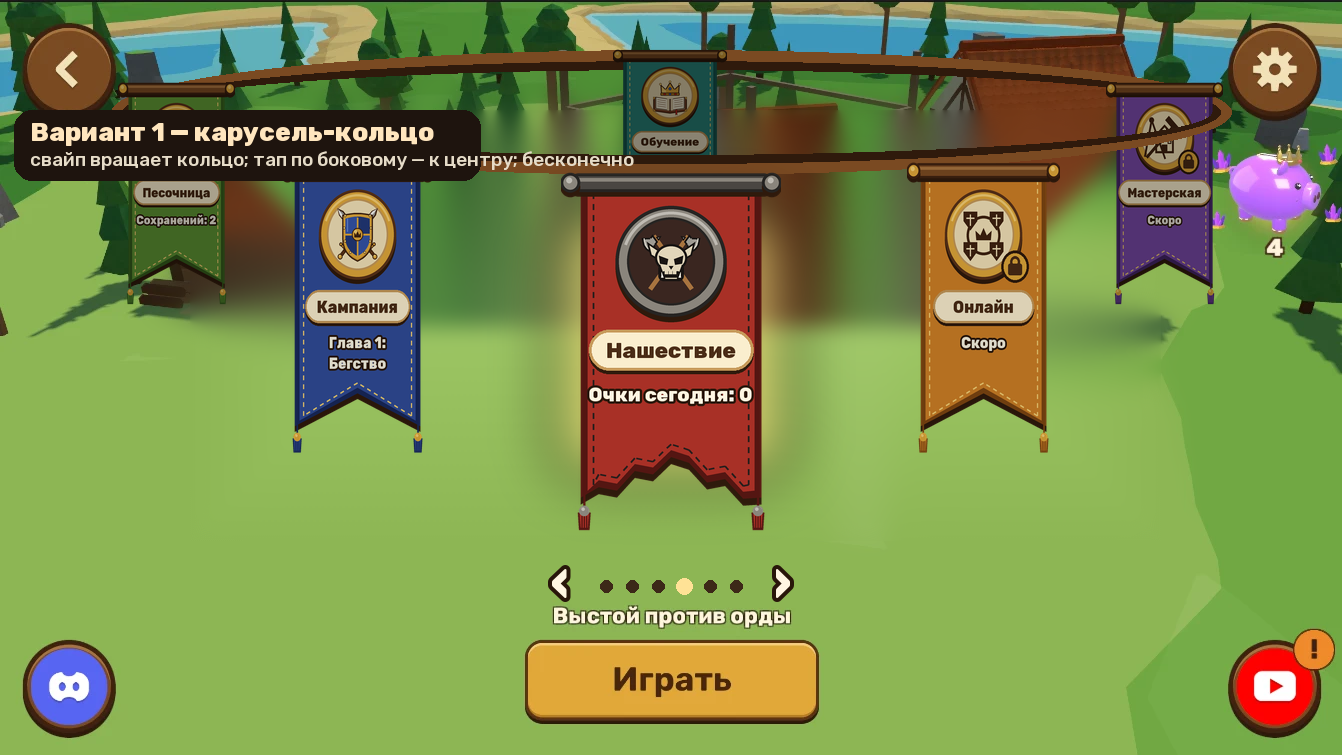
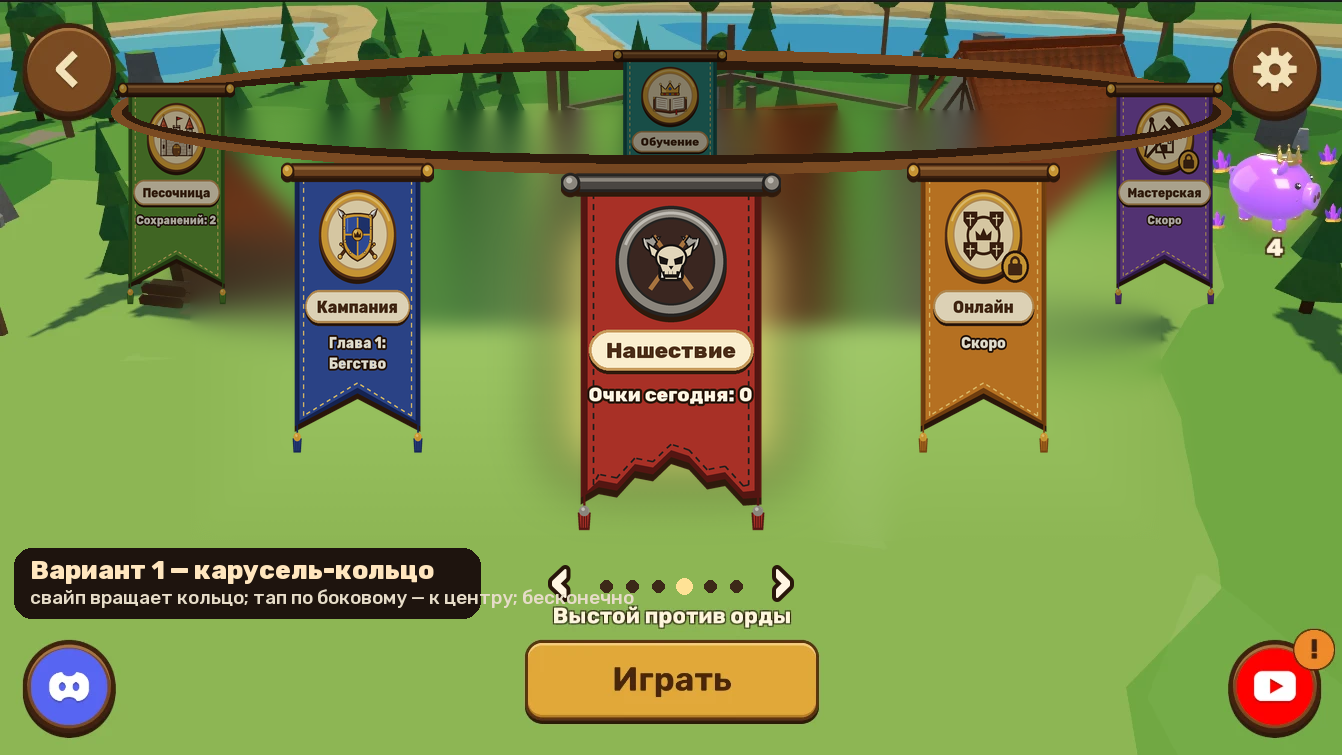
Modes screen: the user's row concept (big centre, two smaller and darker each side, arrows, closed chain)

Changed region(s): [[0.0, 0.1219, 0.4583, 0.2437], [0.0, 0.7007, 0.4583, 0.8225]]

diff --git a/Tools/ui/mode_wheel_concepts.py b/Tools/ui/mode_wheel_concepts.py
@@ -179,9 +179,9 @@ def hint(canvas, y, picked, n=6):
 
 def label(canvas, text, sub):
     d = ImageDraw.Draw(canvas)
-    d.rounded_rectangle((14, 700 - 590, 480, 700 - 520), 18, fill=(30, 20, 14, 200))
-    d.text((30, 700 - 584), text, font=font(26), fill=(255, 230, 190, 255))
-    d.text((30, 700 - 552), sub, font=ImageFont.truetype(FONT.replace('ExtraBold', 'Medium'), 19), fill=(230, 220, 200, 255))
+    d.rounded_rectangle((14, 548, 480, 618), 18, fill=(30, 20, 14, 200))
+    d.text((30, 554), text, font=font(26), fill=(255, 230, 190, 255))
+    d.text((30, 586), sub, font=ImageFont.truetype(FONT.replace('ExtraBold', 'Medium'), 19), fill=(230, 220, 200, 255))
 
 
 # --- variant 1: the carousel ring ---------------------------------------------------------------------------
@@ -262,6 +262,41 @@ def fan(bg, cards, picked=3):
     label(canvas, 'Вариант 2 — веер на изогнутой балке', 'свайп сдвигает штандарты вдоль балки; центральный крупнее')
     return canvas
 
+# --- variant 3: the user's own (2026-11-16): one straight row, the picked one big in the centre, two smaller and
+# darker each side, the sixth off screen; arrows at the screen's edges, swipe and a tap on a side banner too;
+# the chain is closed and scrolls without end ---------------------------------------------------------------
+def row(bg, shot, cards, picked=3):
+    canvas = bg.copy()
+    cx, n = 671, len(cards)
+    place = {0: (0, 0.60, 0.0), 1: (290, 0.45, 0.30), 2: (478, 0.34, 0.50)}   # offset, scale, darkening
+    items = []
+    for i in range(n):
+        k = ((i - picked + n // 2) % n) - n // 2
+        if abs(k) <= 2:
+            items.append((abs(k), k, i))
+    for ak, k, i in sorted(items, reverse=True):
+        off, s, dk = place[ak]
+        c = cards[i]
+        w, h = int(c.width * s), int(c.height * s)
+        x = cx + off * (1 if k > 0 else -1)
+        top = 118 + (0.60 - s) * 110
+        if ak == 0:
+            canvas = glow_under(canvas, x, top, w, h)
+        canvas.alpha_composite(darken(c.resize((w, h), Image.LANCZOS), dk), (int(x - w / 2), int(top)))
+    # the arrows: the screen's own round wooden «back» button, mirrored for the right
+    arrow = shot.crop((22, 22, 118, 118)).resize((86, 86), Image.LANCZOS)
+    mask = Image.new('L', arrow.size, 0)
+    ImageDraw.Draw(mask).ellipse((1, 1, 85, 85), fill=255)
+    canvas.paste(arrow, (14, 300), mask)
+    canvas.paste(arrow.transpose(Image.FLIP_LEFT_RIGHT), (1342 - 14 - 86, 300), mask.transpose(Image.FLIP_LEFT_RIGHT))
+    d = ImageDraw.Draw(canvas)
+    for j in range(n):
+        x = cx + (j - (n - 1) / 2) * 26
+        r = 8 if j == picked else 6
+        d.ellipse((x - r, 586 - r, x + r, 586 + r), fill=(255, 226, 150, 255) if j == picked else (60, 40, 24, 170))
+    label(canvas, 'Вариант 3 — лента по кругу', 'стрелки, свайп и тап по боковому; цепочка замкнута')
+    return canvas
+
 
 def main():
     shot = Image.open(sys.argv[1]).convert('RGBA')
@@ -270,6 +305,8 @@ def main():
     os.makedirs(OUT, exist_ok=True)
     carousel(bg, cards).convert('RGB').save(os.path.join(OUT, 'ModeWheel_1_Carousel.png'))
     fan(bg, cards).convert('RGB').save(os.path.join(OUT, 'ModeWheel_2_Fan.png'))
+    row(bg, shot, cards).convert('RGB').save(os.path.join(OUT, 'ModeWheel_3_Row.png'))
+    row(bg, shot, cards, 1).convert('RGB').save(os.path.join(OUT, 'ModeWheel_3_Row_Sandbox.png'))
     sheet = Image.new('RGBA', (2 * 400 + 60, 720), (44, 36, 46, 255))
     for j, i in enumerate((5, 4)):
         sheet.alpha_composite(cards[i].resize((380, 660), Image.LANCZOS), (20 + j * 420, 40))
